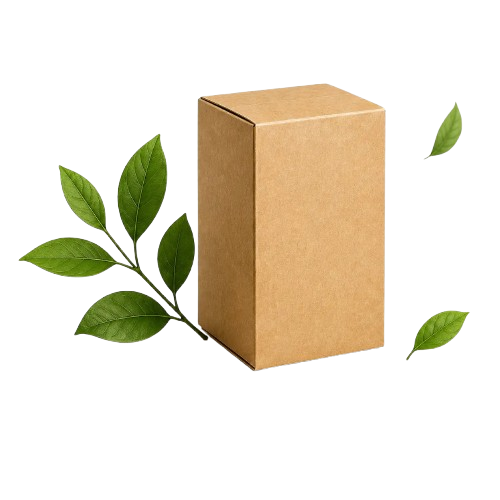
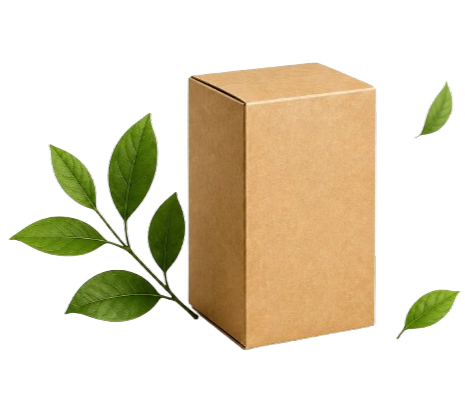
updates

Changed region(s): [[0.0, 0.1481, 0.9333, 0.8889], [0.843, 0.2074, 0.9935, 0.3556], [0.843, 0.7111, 0.9935, 0.8296]]

diff --git a/src/components/home/Footer.tsx b/src/components/home/Footer.tsx
@@ -375,7 +375,7 @@ export default function Footer() {
 
             <div className="text-center lg:col-span-6 lg:text-left">
               <h2
-                className="font-serif text-xl font-bold leading-snug tracking-tight sm:text-2xl lg:text-[1.65rem] lg:leading-snug"
+                className="-mt-4 font-serif text-xl font-bold leading-snug tracking-tight sm:mt-0 sm:text-2xl lg:text-[1.65rem] lg:leading-snug"
                 style={{ color: FOREST }}
               >
                 Ready to build packaging that{" "}
@@ -390,7 +390,7 @@ export default function Footer() {
                 your brand?
               </h2>
               <p
-                className="mt-2.5 max-w-xl text-sm leading-relaxed sm:text-[0.9375rem] lg:mx-0 lg:max-w-none"
+                className="mt-2.5 hidden max-w-xl text-sm leading-relaxed sm:block sm:text-[0.9375rem] lg:mx-0 lg:max-w-none"
                 style={{ color: `${FOREST}99` }}
               >
                 Sustainable. Custom. Impactful. Let&apos;s create packaging that speaks for your brand and cares for the
